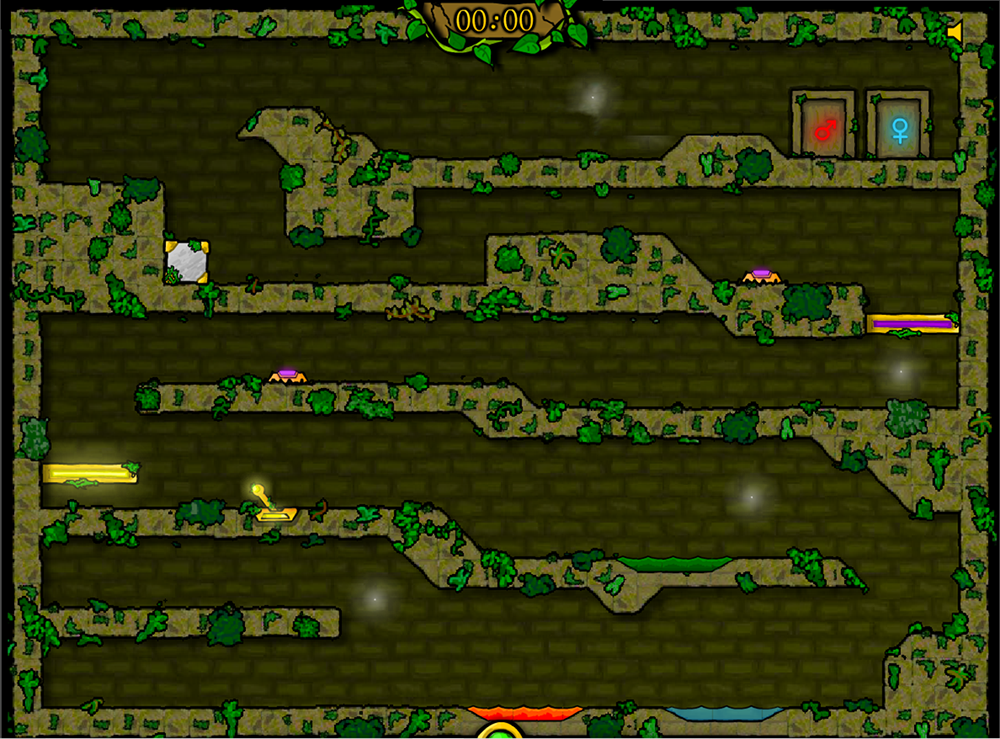
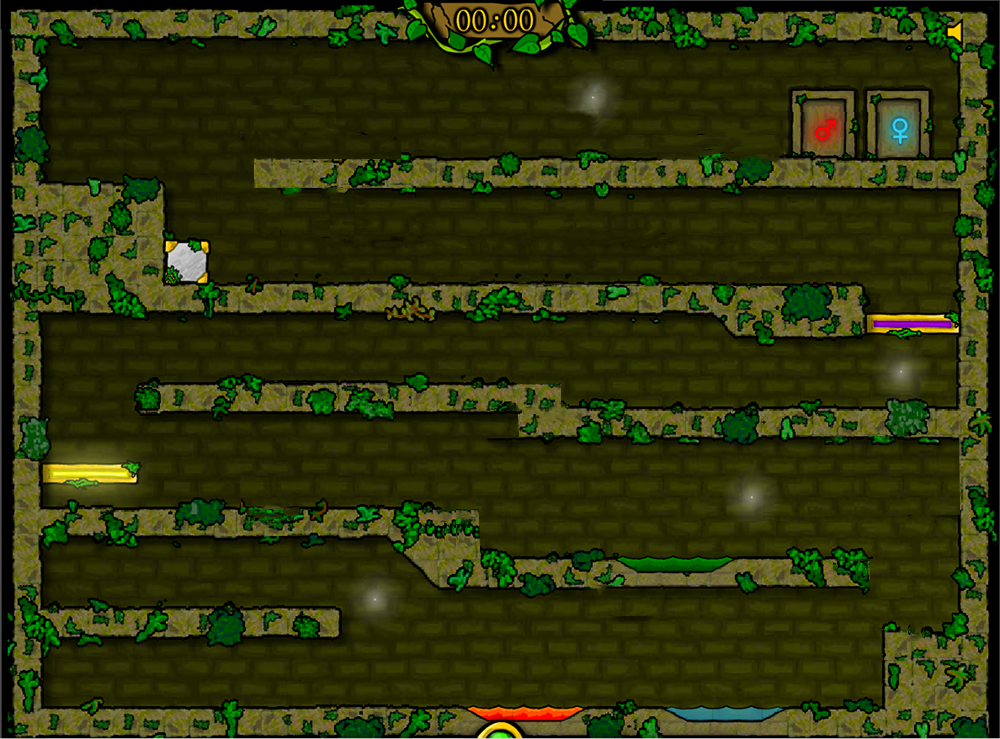
Add files via upload

diff --git a/gamescene.cpp b/gamescene.cpp
@@ -6,27 +6,34 @@
 #include<QLabel>
 #include<QKeyEvent>
 #include<QtWidgets>
+#include<QMessageBox>
+#include<QLabel>
 
 //x——横坐标，y——纵坐标
 
 double vx;//速度
 double vy;
 double ax=4;//加速度
-double ay=4;
+double ay=0;
 double dx;//位移
 double dy;
 
+double lww=10;
+double lwh=30;
+
 const double vx_max=5;
-const double vy_max=20;
+const double vy_max=12;
+const double ay_max=1;
 
-//fireman正脸的图像大小
-const int z_Width=25;
-const int z_Height=49;
-//fireman侧脸的图像大小
-const int c_Width=43;
-const int c_Height=42;
+//fireman的图像大小
+const double Width=74;
+const double Height=58;
 
+double height=Height;
+double width=18;
+double width1=37;
 
+//构造函数部分
 GameScene::GameScene(QWidget *parent) : QMainWindow(parent)
 {
     //配置场景
@@ -57,63 +64,157 @@ GameScene::GameScene(QWidget *parent) : QMainWindow(parent)
     });
 
 
-    //Fireman的实现
+    //刷新率
     id1=startTimer(20);
 
     Fire = new QLabel(this);
-    QPixmap* pixmap=new QPixmap(":/res/fireman2.png");
 
+    //fireman各种图片的导入
+    pixmap=new QPixmap(":/res/fireman1.png");
+    QImage image1 = pixmap->toImage();
+    image1 = image1.scaled(pixmap->size() * 0.7, Qt::KeepAspectRatio);
+    *pixmap = QPixmap::fromImage(image1);
 
-    //设置fireman的图片以及大小
-    QImage image = pixmap->toImage();
-    image = image.scaled(c_Width,c_Height);
-    *pixmap = QPixmap::fromImage(image);
-    qDebug()<<pixmap->width()<<pixmap->height();
-    Fire->setPixmap(*pixmap);
-    Fire->setFixedSize(c_Width,c_Height);
+    pixmapr=new QPixmap(":/res/fireman2.png");
+    QImage image2 = pixmapr->toImage();
+    image2 = image2.scaled(pixmapr->size() * 0.7, Qt::KeepAspectRatio);
+    *pixmapr = QPixmap::fromImage(image2);
 
+    pixmapl=new QPixmap(":/res/fireman3.png");
+    QImage image3 = pixmapl->toImage();
+    image3 = image3.scaled(pixmapl->size() * 0.7, Qt::KeepAspectRatio);
+    *pixmapl = QPixmap::fromImage(image3);
+
+//    Fire->setPixmap(*pixmap);
+    //固定fireman的大小
+    Fire->setFixedSize(Width,Height);
 }
+
 
 //同一块障碍物地板要高于墙一点，否则会卡bug  地板要比墙靠里一点点
 bool judge_floor(double X,double Y)//判定地板
 {
-    if(Y>=650||(Y>=560&&Y<=580&&X>=0&&X<=330)||(Y>=570&&X>850))
+    if(Y>=708-height/*底层*/
+        ||(Y>=606-height&&Y<=640-height&&X>=0-width1&&X<=340-width1)/*一层夹层墙*/
+        ||(Y>=628-height&&X>882-width1)/*一层右边墙*/
+        ||(Y>=509-height&&Y<=530-height&&X<=490-width1)/*二层高墙*/
+        ||(Y>=465-height&&Y<=500-height&&X<=141-width1)/*黄色机关墙*/
+        ||(Y>=557-height&&Y<=580-height&&X>=438-width1&&X<=872-width1)/*二层低墙*/
+        ||((Y>=385-height)&&(Y<=400-height)&&X>=136-width1&&X<=562-width1)/*三层左墙*/
+        ||((Y>=410-height)&&(Y<=430-height)&&X>=561-width1)/*三层右墙*/
+        ||(Y>=313-height&&Y<=332-height&&X>=864-width1)/*紫色机关*/
+        ||(Y>=286-height&&Y<=311-height&&X<=860-width1)||(Y>=247-height&&Y<=282-height&&X<=212-width1)||(Y>=186-height&&Y<=297-height&&X<=168-width1)/*四层三个墙*/
+        ||(Y>=160-height&&Y<=185-height&&X>=254-width1)/*第四层*/
+        )
         return 1;
     else
         return 0;
 }
+int adjust_floor(double X,double Y){
+    if(Y>=708-height)        return 708-height;
+    else if(Y>=606-height&&Y<=640-height&&X>=0-width1&&X<=340-width1)        return 606-height;
+    else if(Y>=628-height&&X>882-width1)        return 628-height;
+    else if(Y>=509-height&&Y<=530-height&&X<=490-width1)        return 509-height;
+    else if(Y>=465-height&&Y<=500-height&&X<=141-width)        return 465-height;
+    else if(Y>=557-height&&Y<=580-height&&X>=438-width1&&X<=872-width1)        return 557-height;
+    else if((Y>=385-height)&&(Y<=400-height)&&X>=136-width1&&X<=562-width1)        return 385-height;
+    else if((Y>=410-height)&&(Y<=430-height)&&X>=561-width1)        return 410-height;
+    else if(Y>=313-height&&Y<=332-height&&X>=864-width1)      return 313-height;
+    else if(Y>=286-height&&Y<=311-height&&X<=860-width1)        return 286-height;
+    else if(Y>=247-height&&Y<=282-height&&X<=212-width1)       return 247-height;
+    else if(Y>=186-height&&Y<=297-height&&X<=168-width1)        return 186-height;
+    else if(Y>=160-height&&Y<=185-height&&X>=254-width1)        return 160-height;
 
+}
 bool judge_leftwall(double X,double Y)//判定左墙
 {
-    if(X<=50||(X<=330&&X>=320&&Y>=575&&Y<=585))
+    if(X<=38/*左边全墙*/
+        ||(X<=330&&X>=320&&Y>=608-height&&Y<=634-height)/*一层中间卡墙*/
+        ||(Y>=560&&Y<=588&&X>=842-lww&&X<=842)/*二层右墙*/
+        ||(Y>=512-40&&Y<=557-40&&X>=487-lww&&X<=468)/*二层中间墙*/
+        ||(Y>=463-lwh&&Y<=510-lwh&&X<=120) /*二层机关右边*/
+        ||(Y>=385-50&&Y<=412-50&&X>=550-lww&&X<=550)/*三层中间墙*/
+        ||(Y>=243-50&&Y<=282-50&&X>=200-lww&&X<=200)/*箱子左边*/
+        ||(Y>=288-50&&Y<=332-50&&X>=291-lww&&X<=291)/*紫色机关左墙*/
+        )
         return 1;
     else
         return 0;
 }
 bool judge_rightwall(double X,double Y)//判定右墙
 {
-    if((X>=845&&X<=855&&Y>=580)||X>=950)
+    if((X>=835&&X<=855&&Y>=580)/*一层右墙*/
+        ||X>=950-40/*右侧墙*/
+        )
         return 1;
     else
         return 0;
 }
 bool judge_head(int X,int Y)//判定头是否撞墙
 {
-    if(Y>=585&&Y<=610&&X>=0&&X<=330)
+    if((Y>=585&&Y<=610&&X>=0&&X<=330)
+        ||(Y>=260&&Y<=318&&X>=0&&X<=717)
+        ||(Y>=150&&Y<=190&&X>=415)
+        ||(Y>=559&&Y<=570&&X>=409&&X<=872)
+        ||Y<=42
+        ||(Y>=160&&Y<=185&&X>=254)
+        )
         return 1;
     else
         return 0;
 }
 
+
+bool judge_fire(double X,double Y)//岩浆判定
+{
+    if(Y>=708-height&&X>=466-width&&X<=583-width)
+        return 1;
+    else
+        return 0;
+}
+bool judge_poison(double X,double Y)//毒液判定
+{
+    if(Y>=557-height&&Y<=580-height&&X>=620-width1&&X<=730-width)
+        return 1;
+    else
+        return 0;
+}
+bool judge_water(double X,double Y)//水判定
+{
+    if(Y>=708-height&&X>=665-width1&&X<=785-width1)
+        return 1;
+    else
+        return 0;
+}
+
+
+bool GameScene::judge_win(double X,double Y){
+     if(X>=790&&X<=856&&Y>=160-58&&Y<=185-58)
+        Victory();
+}
+bool GameScene::judge_lose(double X,double Y){
+//    qDebug()<<"调用了判断失败函数";
+    if(judge_water(X,Y)||judge_poison(X,Y))
+    {
+        qDebug()<<"失败了";
+        Fire->move(x,1000);
+        Failure();
+    }
+}
+
+
 void GameScene::timerEvent(QTimerEvent *time){
     if(time->timerId()==id1)
     {
+        judge_lose(x,y);
+        judge_win(x,y);
         int modex= 0;
         int modey= 0;
-        int t=1;
+
         if(GetAsyncKeyState('A')&0x8000)modex--;
         if(GetAsyncKeyState('W')&0x8000)modey++;
         if(GetAsyncKeyState('D')&0x8000)modex++;
+
         if(modex==0)
         {
             vx=0;
@@ -154,36 +255,49 @@ void GameScene::timerEvent(QTimerEvent *time){
                 vy=0;
                 ay=0;
             }
-            t=1;
         }
         if(judge_floor(x,y)==0)
         {
             if(judge_head(x,y)==1){
                 vy=0;
             }
-            if(vy<=20&&vy>=-20)
+            if(vy<=vy_max&&vy>=-vy_max)
             {
                 vy-=ay;
-                ay=4;
+                ay=ay_max;
             }
-            if(vy>20)vy=20;
-            if(vy<-20)vy=-20;
+            if(vy>vy_max)vy=vy_max;
+            if(vy<-vy_max)vy=-vy_max;
         }
 
         dx+=vx;
-        dy+=vy*t+ay*t*t/2;
-        t++;
+        dy+=vy;
         x+=dx;
         y-=dy;
+
+        //如果fireman跳到了地面上，强迫他在地面上，不能陷到地面里面
+        if(judge_floor(x,y))
+            y=adjust_floor (x,y);
+
+//        if(dy!=0)
+//            qDebug()<<x<<y;
+
         dx=0,dy=0;
-        Fire->setGeometry(x,y,Fire->width(),Fire->height());
-        //QImage *img=new QImage;
-        //img->load(":/res/fire.png");
         //可以在此处改变形态
+        if(modex>0){
+            Fire->setPixmap(*pixmapr);
+        }
+        else if(modex<0){
+            Fire->setPixmap(*pixmapl);
+        }
+        else if(modex==0){
+            Fire->setPixmap(*pixmap);
+        }
+        Fire->move(x,y);
         modex=0;
         modey=0;
-        //Fire->setPixmap(QPixmap::fromImage(*img));
         Fire->show();
+
 
     }
 };
@@ -195,4 +309,43 @@ void GameScene::paintEvent(QPaintEvent*){
     pix.load(":/res/gamescene.png");
     painter.drawPixmap(0,0,this->width(),this->height(),pix);
 
+}
+
+//成功函数
+void GameScene::Victory(){
+    int ret2=QMessageBox::information(this,"闯关成功","恭喜你闯关成功！",QMessageBox::Ok);
+    if(ret2){
+        //延时返回到主场景
+        QTimer::singleShot(200,this,[=](){
+            //告诉主场景，我返回了，主场景监听gameScene的返回按钮
+            emit this->gameSceneBack();
+        });
+        x=ini_x;
+        y=ini_y;
+        Fire->move(x,y);
+    }
+}
+
+//失败函数
+void GameScene::Failure(){
+    int ret1=QMessageBox::question(this,"闯关失败","是否重开？",QMessageBox::Yes,QMessageBox::No);
+    if(ret1==QMessageBox::Yes){
+//        qDebug()<<ini_x<<ini_y;
+        x=ini_x;
+        y=ini_y;
+        Fire->move(x,y);
+        Fire->show();
+    }
+    else{
+        //将fireman设置为初始位置
+
+        //延时返回到主场景
+        QTimer::singleShot(200,this,[=](){
+            //告诉主场景，我返回了，主场景监听gameScene的返回按钮
+            emit this->gameSceneBack();
+        });
+        x=ini_x;
+        y=ini_y;
+        Fire->move(x,y);
+    }
 }

diff --git a/gamescene.h b/gamescene.h
@@ -13,14 +13,28 @@ public:
     //重写PaintEvent事件，画背景图
     void paintEvent(QPaintEvent*);
     void timerEvent(QTimerEvent *time);
-    //Fireman的坐标
-    double x=109;
-    double y=600;
+    //Fireman的坐标（初始坐标与当前坐标）
+    double ini_x=109;
+    double ini_y=650;
+    double x=ini_x;
+    double y=ini_y;
     //刷新频率
     int id1;
     //Fireman
     QLabel* Fire;
-    QLabel* player;
+    //fireman的各种图片
+    QPixmap* pixmap;
+    QPixmap* pixmapr;
+    QPixmap* pixmapl;
+
+    //成功函数
+    void Victory();
+    //失败函数
+    void Failure();
+
+    //判断输赢函数
+    bool judge_win(double X,double Y);
+    bool judge_lose(double X,double Y);
 
 signals:
     //写一个自定义的信号，告诉主场景，点击了返回
